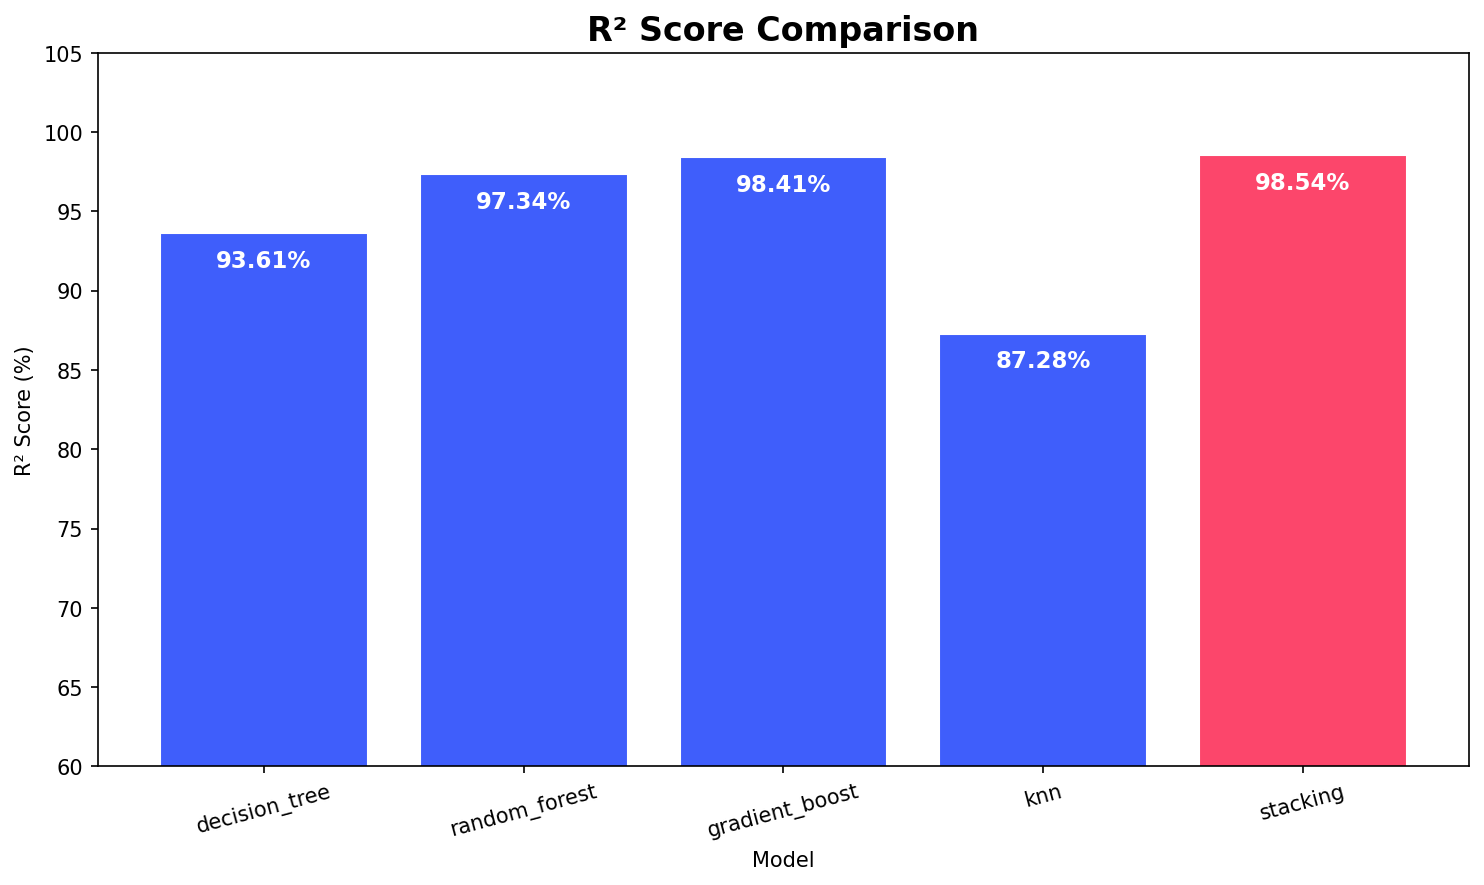
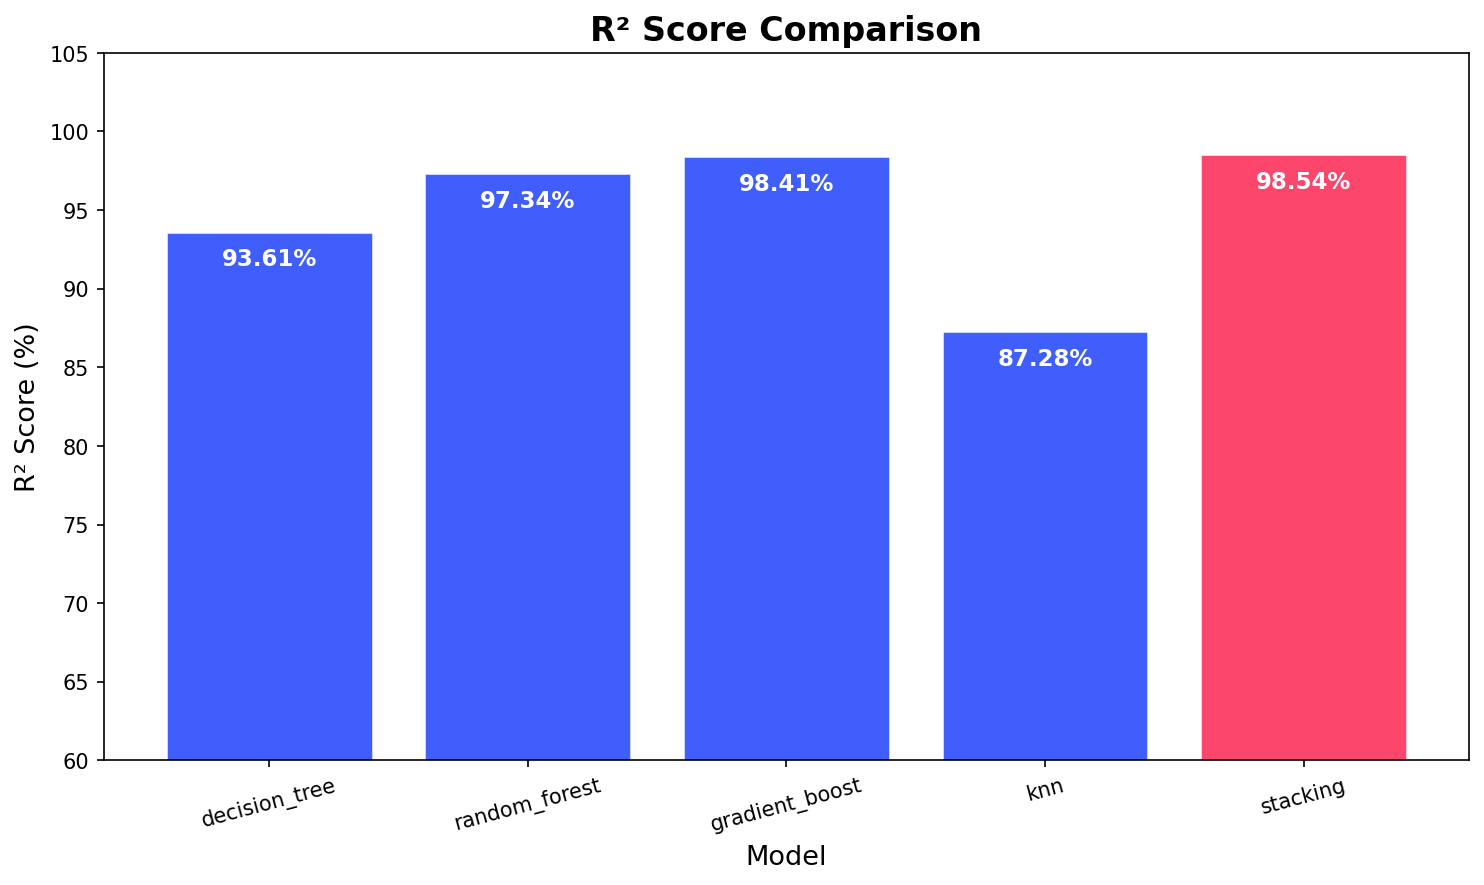
Files Added

diff --git a/app.py b/app.py
@@ -8,7 +8,6 @@ import pickle
 # ------------------------------------------------
 st.set_page_config(
     page_title="Stacking Regression",
-    page_icon="🏠",
     layout="wide"
 )
 
@@ -29,7 +28,7 @@ results = pickle.load(open("models/r2_results.pkl", "rb"))
 # Title
 # ------------------------------------------------
 st.markdown(
-    "<h1 class='main-title'>🏠 House Price Prediction App</h1>",
+    "<h1 class='main-title'>House Price Prediction App</h1>",
     unsafe_allow_html=True
 )
 
@@ -37,7 +36,7 @@ st.markdown(
     """
     <div class='info-box'>
     Predict the <b>House Price</b> based on property features
-    using <b>Stacking Ensemble Regression</b> 🚀
+    using <b>Stacking Ensemble Regression</b> 
     </div>
     """,
     unsafe_allow_html=True
@@ -62,7 +61,7 @@ st.sidebar.success("Dataset : Housing Price Prediction")
 # Performance Section
 # ------------------------------------------------
 st.markdown("---")
-st.subheader("📊 Model Performance Comparison (R² Score)")
+st.subheader("Model Performance Comparison (R² Score)")
 
 col_m1, col_m2, col_m3, col_m4, col_m5 = st.columns(5)
 
@@ -123,7 +122,7 @@ with col3:
 # ------------------------------------------------
 # Prediction
 # ------------------------------------------------
-if st.button("🎯 Predict House Price"):
+if st.button(" Predict House Price"):
 
     input_data = np.array([[
         area,
@@ -148,7 +147,7 @@ if st.button("🎯 Predict House Price"):
     st.markdown(
         f"""
         <div class='prediction-box'>
-            🏠 Estimated House Price
+            Estimated House Price
             <br><br>
             <span>${prediction:,.0f}</span>
             <br><br>
@@ -160,7 +159,7 @@ if st.button("🎯 Predict House Price"):
 
     # Individual base learner predictions
     st.markdown("---")
-    st.subheader("🗳️ Base Learner Price Estimates")
+    st.subheader(" Base Learner Price Estimates")
 
     vote_cols = st.columns(4)
     for col, (bname, bprice) in zip(vote_cols, base_preds.items()):
@@ -171,7 +170,7 @@ if st.button("🎯 Predict House Price"):
 # Feature Importance Info
 # ------------------------------------------------
 st.markdown("---")
-st.subheader("📖 Feature Descriptions")
+st.subheader(" Feature Descriptions")
 
 with st.expander("Area"):
     st.write("Total area of the house in square feet (500 – 5000 sq ft)")
@@ -204,7 +203,7 @@ with st.expander("Condition"):
 # How Stacking Works
 # ------------------------------------------------
 st.markdown("---")
-st.subheader("🧠 How Stacking Regression Works")
+st.subheader(" How Stacking Regression Works")
 
 st.markdown("""
 <div class='info-box'>
@@ -222,7 +221,7 @@ st.markdown(
     """
     <hr>
     <center>
-    <h4>✨ Built using Streamlit, Scikit-Learn & Stacking Ensemble ✨</h4>
+    <h4> Built using Streamlit, Scikit-Learn & Stacking Ensemble </h4>
     </center>
     """,
     unsafe_allow_html=True